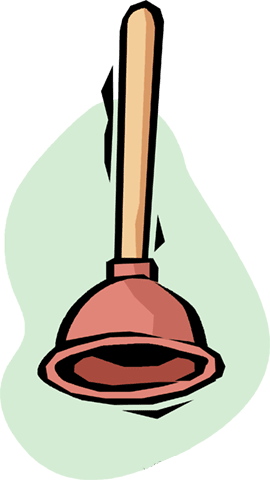
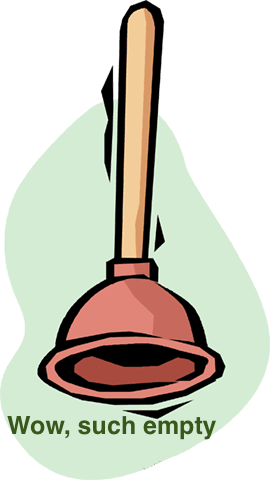
no message

Changed region(s): [[0.0296, 0.8438, 0.5037, 0.9062], [0.5333, 0.875, 0.8, 0.9375]]

diff --git a/resources/views/front/client/request/index.blade.php b/resources/views/front/client/request/index.blade.php
@@ -108,7 +108,7 @@
             </table>
         </div>
         @if($pendingRequests->count() == 0)
-            <div class="container" style="background-image:url('/public/images/client/pending-empty.png');">
+            <div class="container" style=" background-repeat: no-repeat; background-position: center;height: -webkit-fill-available;background-image:url('/public/images/client/pending-empty.png');">
                 <p>Wow, such empty</p>
             </div>
         @endif
@@ -203,7 +203,7 @@
             </table>
         </div>
         @if($approvedRequests->count() == 0)
-            <div class="container" style="background-image:url('/public/images/client/approved-empty.png');">
+            <div class="container" style=" background-repeat: no-repeat;background-position: center;height: -webkit-fill-available;background-image:url('/public/images/client/approved-empty.png');">
                 <p>Wow, such empty</p>
             </div>
         @endif
